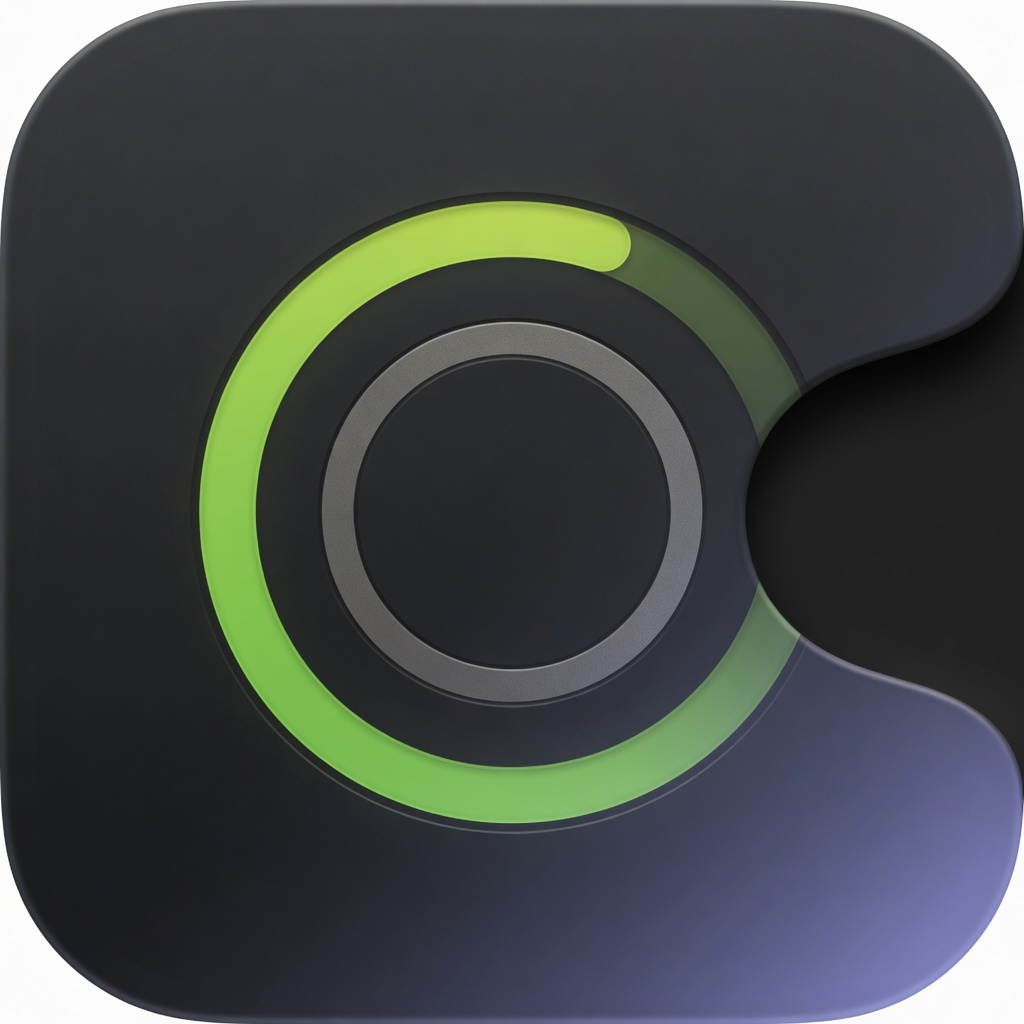
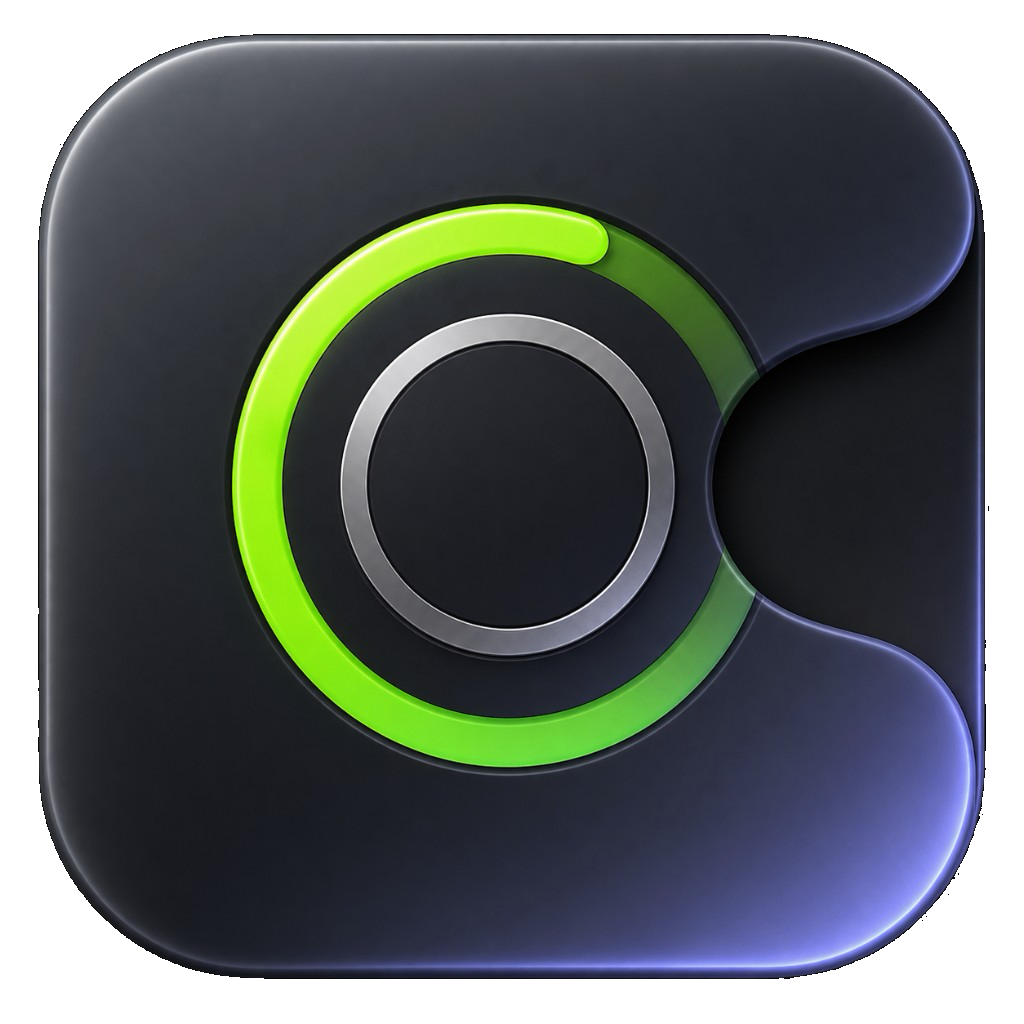
feat: 0.4.1 会话标题和图标
Cursor 进行中任务改用会话名，避免把最近改过的文件当成正在跑的任务。应用图标换成带透明 C 形缺口的新图。
swift test 127 通过。

diff --git a/Tests/CapacityDockTests/CapacityDockActiveTaskTests.swift b/Tests/CapacityDockTests/CapacityDockActiveTaskTests.swift
@@ -45,6 +45,74 @@ struct CapacityDockActiveTaskTests {
         ])
     }
 
+    @Test("Cursor conversation name wins over the last hashed file")
+    func cursorConversationTitleWinsOverFile() throws {
+        let home = try Self.makeHome()
+        defer { try? FileManager.default.removeItem(at: home) }
+        let now = Date(timeIntervalSince1970: 1_700_000_090)
+        try Self.writeTrackingDatabase(
+            at: Self.cursorDB(home),
+            rows: [
+                (
+                    conversation: "884772cc-96ba-4147-81e2-ba80aa261d71",
+                    file: "/Users/lu/Documents/Grok/capacity-dock/CONTRIBUTING.md",
+                    timestamp: Int64(now.timeIntervalSince1970 * 1000) - 1_000
+                )
+            ]
+        )
+        try Self.writeConversationSearch(
+            at: Self.cursorSearchDB(home),
+            rows: [
+                (id: "884772cc-96ba-4147-81e2-ba80aa261d71", title: "Capacity Dock integration setup")
+            ]
+        )
+
+        let tasks = CapacityDockLiveActivity.tasks(
+            providerID: "cursor",
+            since: now.addingTimeInterval(-90),
+            home: home
+        )
+        #expect(tasks == [
+            CapacityDockActiveTask(
+                id: "884772cc-96ba-4147-81e2-ba80aa261d71",
+                title: "Capacity Dock integration setup"
+            )
+        ])
+    }
+
+    @Test("Cursor tracking summary title wins over conversation search")
+    func cursorSummaryTitleWinsOverSearch() throws {
+        let home = try Self.makeHome()
+        defer { try? FileManager.default.removeItem(at: home) }
+        let now = Date(timeIntervalSince1970: 1_700_000_090)
+        try Self.writeTrackingDatabase(
+            at: Self.cursorDB(home),
+            rows: [
+                (
+                    conversation: "conv-2",
+                    file: "/tmp/CONTRIBUTING.md",
+                    timestamp: Int64(now.timeIntervalSince1970 * 1000)
+                )
+            ],
+            summaries: [
+                (id: "conv-2", title: "From tracking summary")
+            ]
+        )
+        try Self.writeConversationSearch(
+            at: Self.cursorSearchDB(home),
+            rows: [(id: "conv-2", title: "From conversation search")]
+        )
+
+        let tasks = CapacityDockLiveActivity.tasks(
+            providerID: "cursor",
+            since: now.addingTimeInterval(-90),
+            home: home
+        )
+        #expect(tasks == [
+            CapacityDockActiveTask(id: "conv-2", title: "From tracking summary")
+        ])
+    }
+
     @Test("stale Cursor edits drop off after the live window")
     func staleCursorEditIsHidden() throws {
         let home = try Self.makeHome()
@@ -244,9 +312,52 @@ struct CapacityDockActiveTaskTests {
         return dir.appendingPathComponent("ai-code-tracking.db")
     }
 
+    private static func cursorSearchDB(_ home: URL) throws -> URL {
+        let dir = home.appendingPathComponent(
+            "Library/Application Support/Cursor/User/globalStorage",
+            isDirectory: true
+        )
+        try FileManager.default.createDirectory(at: dir, withIntermediateDirectories: true)
+        return dir.appendingPathComponent("conversation-search.db")
+    }
+
+    private static func writeConversationSearch(
+        at url: URL,
+        rows: [(id: String, title: String)]
+    ) throws {
+        var database: OpaquePointer?
+        guard sqlite3_open(url.path, &database) == SQLITE_OK else {
+            sqlite3_close(database)
+            throw TrackingFixtureError.open
+        }
+        defer { sqlite3_close(database) }
+        guard sqlite3_exec(
+            database,
+            "CREATE TABLE conversations (id TEXT, title TEXT);",
+            nil,
+            nil,
+            nil
+        ) == SQLITE_OK else { throw TrackingFixtureError.create }
+        for row in rows {
+            var statement: OpaquePointer?
+            guard sqlite3_prepare_v2(
+                database,
+                "INSERT INTO conversations(id, title) VALUES (?, ?);",
+                -1,
+                &statement,
+                nil
+            ) == SQLITE_OK else { throw TrackingFixtureError.prepare }
+            defer { sqlite3_finalize(statement) }
+            sqlite3_bind_text(statement, 1, row.id, -1, sqliteTransientForActiveTaskTests)
+            sqlite3_bind_text(statement, 2, row.title, -1, sqliteTransientForActiveTaskTests)
+            guard sqlite3_step(statement) == SQLITE_DONE else { throw TrackingFixtureError.insert }
+        }
+    }
+
     private static func writeTrackingDatabase(
         at url: URL,
-        rows: [(conversation: String, file: String, timestamp: Int64)]
+        rows: [(conversation: String, file: String, timestamp: Int64)],
+        summaries: [(id: String, title: String)] = []
     ) throws {
         var database: OpaquePointer?
         guard sqlite3_open(url.path, &database) == SQLITE_OK else {
@@ -287,6 +398,34 @@ struct CapacityDockActiveTaskTests {
             sqlite3_bind_text(statement, 1, row.conversation, -1, sqliteTransientForActiveTaskTests)
             sqlite3_bind_text(statement, 2, row.file, -1, sqliteTransientForActiveTaskTests)
             sqlite3_bind_int64(statement, 3, row.timestamp)
+            guard sqlite3_step(statement) == SQLITE_DONE else { throw TrackingFixtureError.insert }
+        }
+
+        guard sqlite3_exec(
+            database,
+            """
+            CREATE TABLE conversation_summaries (
+                conversationId TEXT PRIMARY KEY,
+                title TEXT,
+                updatedAt INTEGER NOT NULL
+            );
+            """,
+            nil,
+            nil,
+            nil
+        ) == SQLITE_OK else { throw TrackingFixtureError.create }
+        for summary in summaries {
+            var statement: OpaquePointer?
+            guard sqlite3_prepare_v2(
+                database,
+                "INSERT INTO conversation_summaries(conversationId, title, updatedAt) VALUES (?, ?, 1);",
+                -1,
+                &statement,
+                nil
+            ) == SQLITE_OK else { throw TrackingFixtureError.prepare }
+            defer { sqlite3_finalize(statement) }
+            sqlite3_bind_text(statement, 1, summary.id, -1, sqliteTransientForActiveTaskTests)
+            sqlite3_bind_text(statement, 2, summary.title, -1, sqliteTransientForActiveTaskTests)
             guard sqlite3_step(statement) == SQLITE_DONE else { throw TrackingFixtureError.insert }
         }
     }

diff --git a/Sources/CapacityDock/Data/CapacityDockActiveTask.swift b/Sources/CapacityDock/Data/CapacityDockActiveTask.swift
@@ -90,16 +90,22 @@ enum CapacityDockLiveActivity {
 
 /// Read-only view of Cursor's local AI-code tracking database. Rows appear
 /// while Composer is writing files; they are not a process list and are never
-/// copied into Capacity Dock storage.
+/// copied into Capacity Dock storage. Titles prefer Cursor's conversation
+/// name, then the last hashed file.
 struct CursorLiveEditStore: Sendable {
     let databaseURL: URL
+    let conversationSearchURL: URL
 
-    init(databaseURL: URL) {
+    init(databaseURL: URL, conversationSearchURL: URL) {
         self.databaseURL = databaseURL
+        self.conversationSearchURL = conversationSearchURL
     }
 
     init(home: URL = FileManager.default.homeDirectoryForCurrentUser) {
-        self.init(databaseURL: Self.defaultDatabaseURL(home: home))
+        self.init(
+            databaseURL: Self.defaultDatabaseURL(home: home),
+            conversationSearchURL: Self.defaultConversationSearchURL(home: home)
+        )
     }
 
     static func defaultDatabaseURL(home: URL = FileManager.default.homeDirectoryForCurrentUser) -> URL {
@@ -107,6 +113,14 @@ struct CursorLiveEditStore: Sendable {
             .appendingPathComponent(".cursor", isDirectory: true)
             .appendingPathComponent("ai-tracking", isDirectory: true)
             .appendingPathComponent("ai-code-tracking.db", isDirectory: false)
+    }
+
+    static func defaultConversationSearchURL(
+        home: URL = FileManager.default.homeDirectoryForCurrentUser
+    ) -> URL {
+        home
+            .appendingPathComponent("Library/Application Support/Cursor/User/globalStorage", isDirectory: true)
+            .appendingPathComponent("conversation-search.db", isDirectory: false)
     }
 
     func tasks(since cutoff: Date) throws -> [CapacityDockActiveTask] {
@@ -135,25 +149,84 @@ struct CursorLiveEditStore: Sendable {
         defer { sqlite3_finalize(statement) }
         sqlite3_bind_int64(statement, 1, cutoffMs)
 
-        var tasks: [CapacityDockActiveTask] = []
+        var rows: [(id: String, fileName: String?)] = []
         while sqlite3_step(statement) == SQLITE_ROW {
             guard let conversation = sqlite3_column_text(statement, 0).map({ String(cString: $0) }),
                   !conversation.isEmpty else { continue }
-            let fileName = sqlite3_column_text(statement, 1).map { String(cString: $0) }
-            tasks.append(
-                CapacityDockActiveTask(
-                    id: conversation,
-                    title: Self.displayTitle(path: fileName)
-                )
+            rows.append((
+                id: conversation,
+                fileName: sqlite3_column_text(statement, 1).map { String(cString: $0) }
+            ))
+        }
+
+        let summaryTitles = Self.titles(
+            for: rows.map(\.id),
+            database: database,
+            sql: "SELECT title FROM conversation_summaries WHERE conversationId = ? LIMIT 1;"
+        )
+        let missing = rows.map(\.id).filter { summaryTitles[$0] == nil }
+        let searchTitles = Self.titles(for: missing, databaseURL: conversationSearchURL)
+
+        return rows.map { row in
+            CapacityDockActiveTask(
+                id: row.id,
+                title: summaryTitles[row.id]
+                    ?? searchTitles[row.id]
+                    ?? Self.displayTitle(path: row.fileName)
             )
         }
-        return tasks
     }
 
     static func displayTitle(path: String?) -> String {
         LiveActivityPath.fileTitle(path)
     }
+
+    private static func titles(
+        for ids: [String],
+        databaseURL: URL
+    ) -> [String: String] {
+        guard !ids.isEmpty, FileManager.default.fileExists(atPath: databaseURL.path) else { return [:] }
+        var database: OpaquePointer?
+        let openResult = sqlite3_open_v2(databaseURL.path, &database, SQLITE_OPEN_READONLY, nil)
+        guard openResult == SQLITE_OK else {
+            sqlite3_close(database)
+            return [:]
+        }
+        defer { sqlite3_close(database) }
+        sqlite3_busy_timeout(database, 250)
+        return titles(
+            for: ids,
+            database: database,
+            sql: "SELECT title FROM conversations WHERE id = ? LIMIT 1;"
+        )
+    }
+
+    private static func titles(
+        for ids: [String],
+        database: OpaquePointer?,
+        sql: String
+    ) -> [String: String] {
+        guard let database, !ids.isEmpty else { return [:] }
+        var statement: OpaquePointer?
+        guard sqlite3_prepare_v2(database, sql, -1, &statement, nil) == SQLITE_OK else { return [:] }
+        defer { sqlite3_finalize(statement) }
+
+        var found: [String: String] = [:]
+        for id in ids {
+            sqlite3_reset(statement)
+            sqlite3_clear_bindings(statement)
+            sqlite3_bind_text(statement, 1, id, -1, sqliteTransientForLiveActivity)
+            guard sqlite3_step(statement) == SQLITE_ROW,
+                  let title = LiveActivityPath.nonEmpty(
+                    sqlite3_column_text(statement, 0).map { String(cString: $0) }
+                  ) else { continue }
+            found[id] = title
+        }
+        return found
+    }
 }
+
+private let sqliteTransientForLiveActivity = unsafeBitCast(-1, to: sqlite3_destructor_type.self)
 
 struct GrokLiveSessionStore {
     let sessionsURL: URL

diff --git a/Sources/CapacityDock/Data/AppVersion.swift b/Sources/CapacityDock/Data/AppVersion.swift
@@ -3,7 +3,7 @@ import Foundation
 enum AppVersion {
     /// Bump this with every GitHub release. Packaged builds also read
     /// CFBundleShortVersionString from Info.plist.
-    static let marketing = "0.4.0"
+    static let marketing = "0.4.1"
 
     static var current: String {
         if let fromBundle = Bundle.main.object(

diff --git a/README.en.md b/README.en.md
@@ -95,7 +95,7 @@ Needs **Swift 6** (Xcode 16 or [swift.org](https://www.swift.org/install/macos/)
 git clone https://github.com/Dmao233/capacity-dock.git
 cd capacity-dock
 swift test
-Scripts/package-app.sh 0.4.0
+Scripts/package-app.sh 0.4.1
 open .build/dist/CapacityDock.app
 ```
 

diff --git a/README.md b/README.md
@@ -95,7 +95,7 @@ xattr -d com.apple.quarantine /Applications/CapacityDock.app
 git clone https://github.com/Dmao233/capacity-dock.git
 cd capacity-dock
 swift test
-Scripts/package-app.sh 0.4.0
+Scripts/package-app.sh 0.4.1
 open .build/dist/CapacityDock.app
 ```
 

diff --git a/CHANGELOG.md b/CHANGELOG.md
@@ -1,5 +1,10 @@
 # Changelog
 
+## 0.4.1
+
+- Cursor 进行中任务改用会话标题，不再显示最近改过的文件名
+- 更新应用图标
+
 ## 0.4.0
 
 - 设置改成系统设置那种左侧边栏：通用 / 关于 / 已适配服务商

diff --git a/CONTRIBUTING.md b/CONTRIBUTING.md
@@ -15,7 +15,7 @@ swift run
 打包 `.app`：
 
 ```bash
-Scripts/package-app.sh 0.4.0
+Scripts/package-app.sh 0.4.1
 open .build/dist/CapacityDock.app
 ```
 
